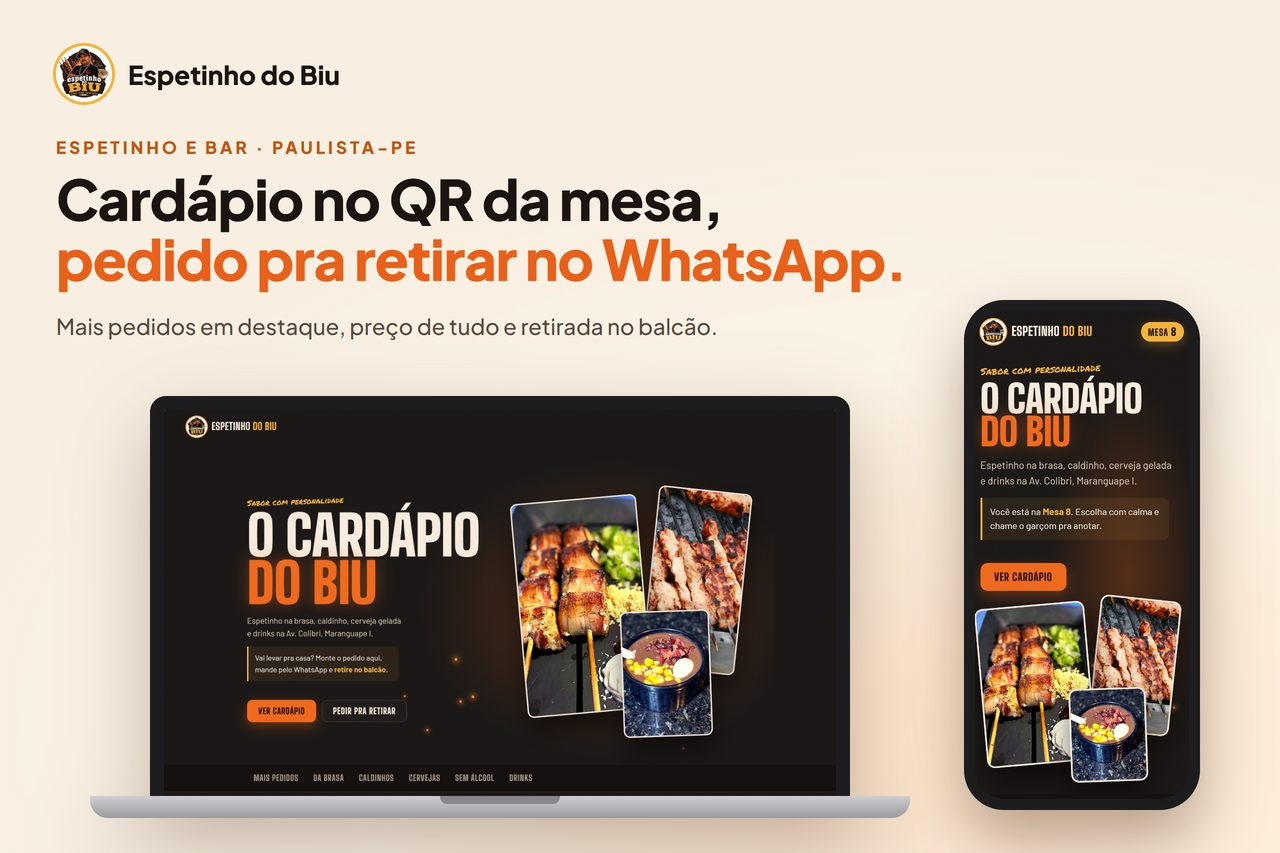
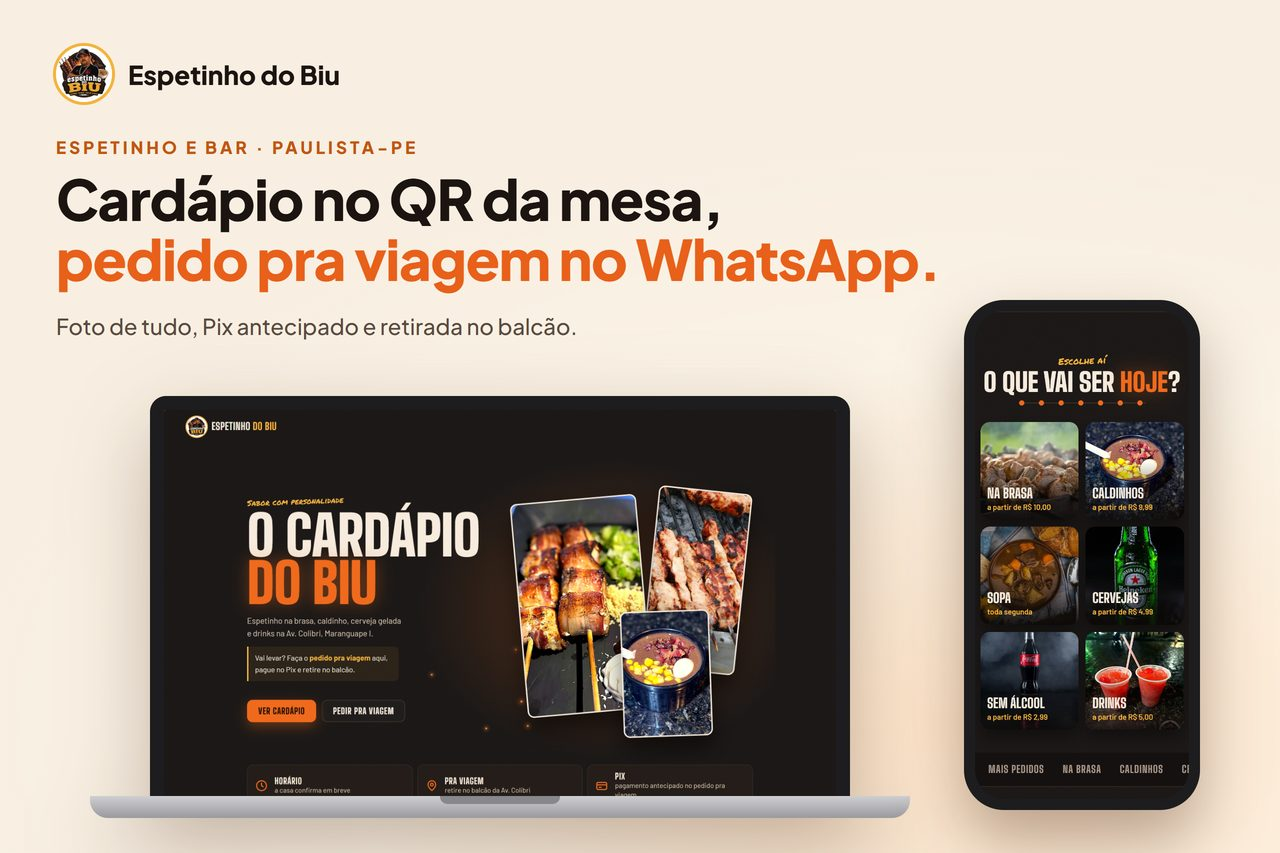
Portfólio: Espetinho do Biu na versão nova, com capa e texto de pedido pra viagem

diff --git a/index.html b/index.html
@@ -600,14 +600,14 @@
         </div>
         <div class="project-card reveal" data-categoria="comida">
           <div class="project-image">
-            <img src="assets/images/espetinho-do-biu-1280.jpg?v=3" srcset="assets/images/espetinho-do-biu-720.jpg?v=3 720w, assets/images/espetinho-do-biu-1280.jpg?v=3 1280w, assets/images/espetinho-do-biu-2560.jpg?v=3 2560w" sizes="(max-width: 640px) 90vw, 360px" alt="Cardápio digital do Espetinho do Biu no computador e no celular" loading="lazy" onerror="this.onerror=null;this.src='assets/images/placeholder.svg';">
+            <img src="assets/images/espetinho-do-biu-1280.jpg?v=4" srcset="assets/images/espetinho-do-biu-720.jpg?v=4 720w, assets/images/espetinho-do-biu-1280.jpg?v=4 1280w, assets/images/espetinho-do-biu-2560.jpg?v=4 2560w" sizes="(max-width: 640px) 90vw, 360px" alt="Cardápio digital do Espetinho do Biu no computador e no celular" loading="lazy" onerror="this.onerror=null;this.src='assets/images/placeholder.svg';">
             <div class="project-image-overlay"></div>
             <span class="project-badge">Em desenvolvimento</span>
           </div>
           <div class="project-content">
             <h3 class="project-title">Espetinho do Biu</h3>
-            <div class="project-highlight"><i class="fas fa-circle-check"></i> Cardápio no QR da mesa e pedido pra retirar pelo WhatsApp</div>
-            <p class="project-desc">Cardápio digital para espetinho e bar em Maranguape I (Paulista-PE): QR Code nas mesas, mais pedidos em destaque, preços de tudo e pedido pra buscar no balcão.</p>
+            <div class="project-highlight"><i class="fas fa-circle-check"></i> Cardápio no QR da mesa e pedido pra viagem pelo WhatsApp</div>
+            <p class="project-desc">Cardápio digital para espetinho e bar em Maranguape I (Paulista-PE): QR Code nas mesas, foto de cada categoria, preços de tudo e pedido pra viagem com Pix antecipado.</p>
             <div class="project-links">
               <a href="https://espetinho-do-biu.pages.dev/" class="project-link primary" target="_blank" rel="noopener noreferrer">
                 <i class="fas fa-external-link-alt"></i> Ver Site
